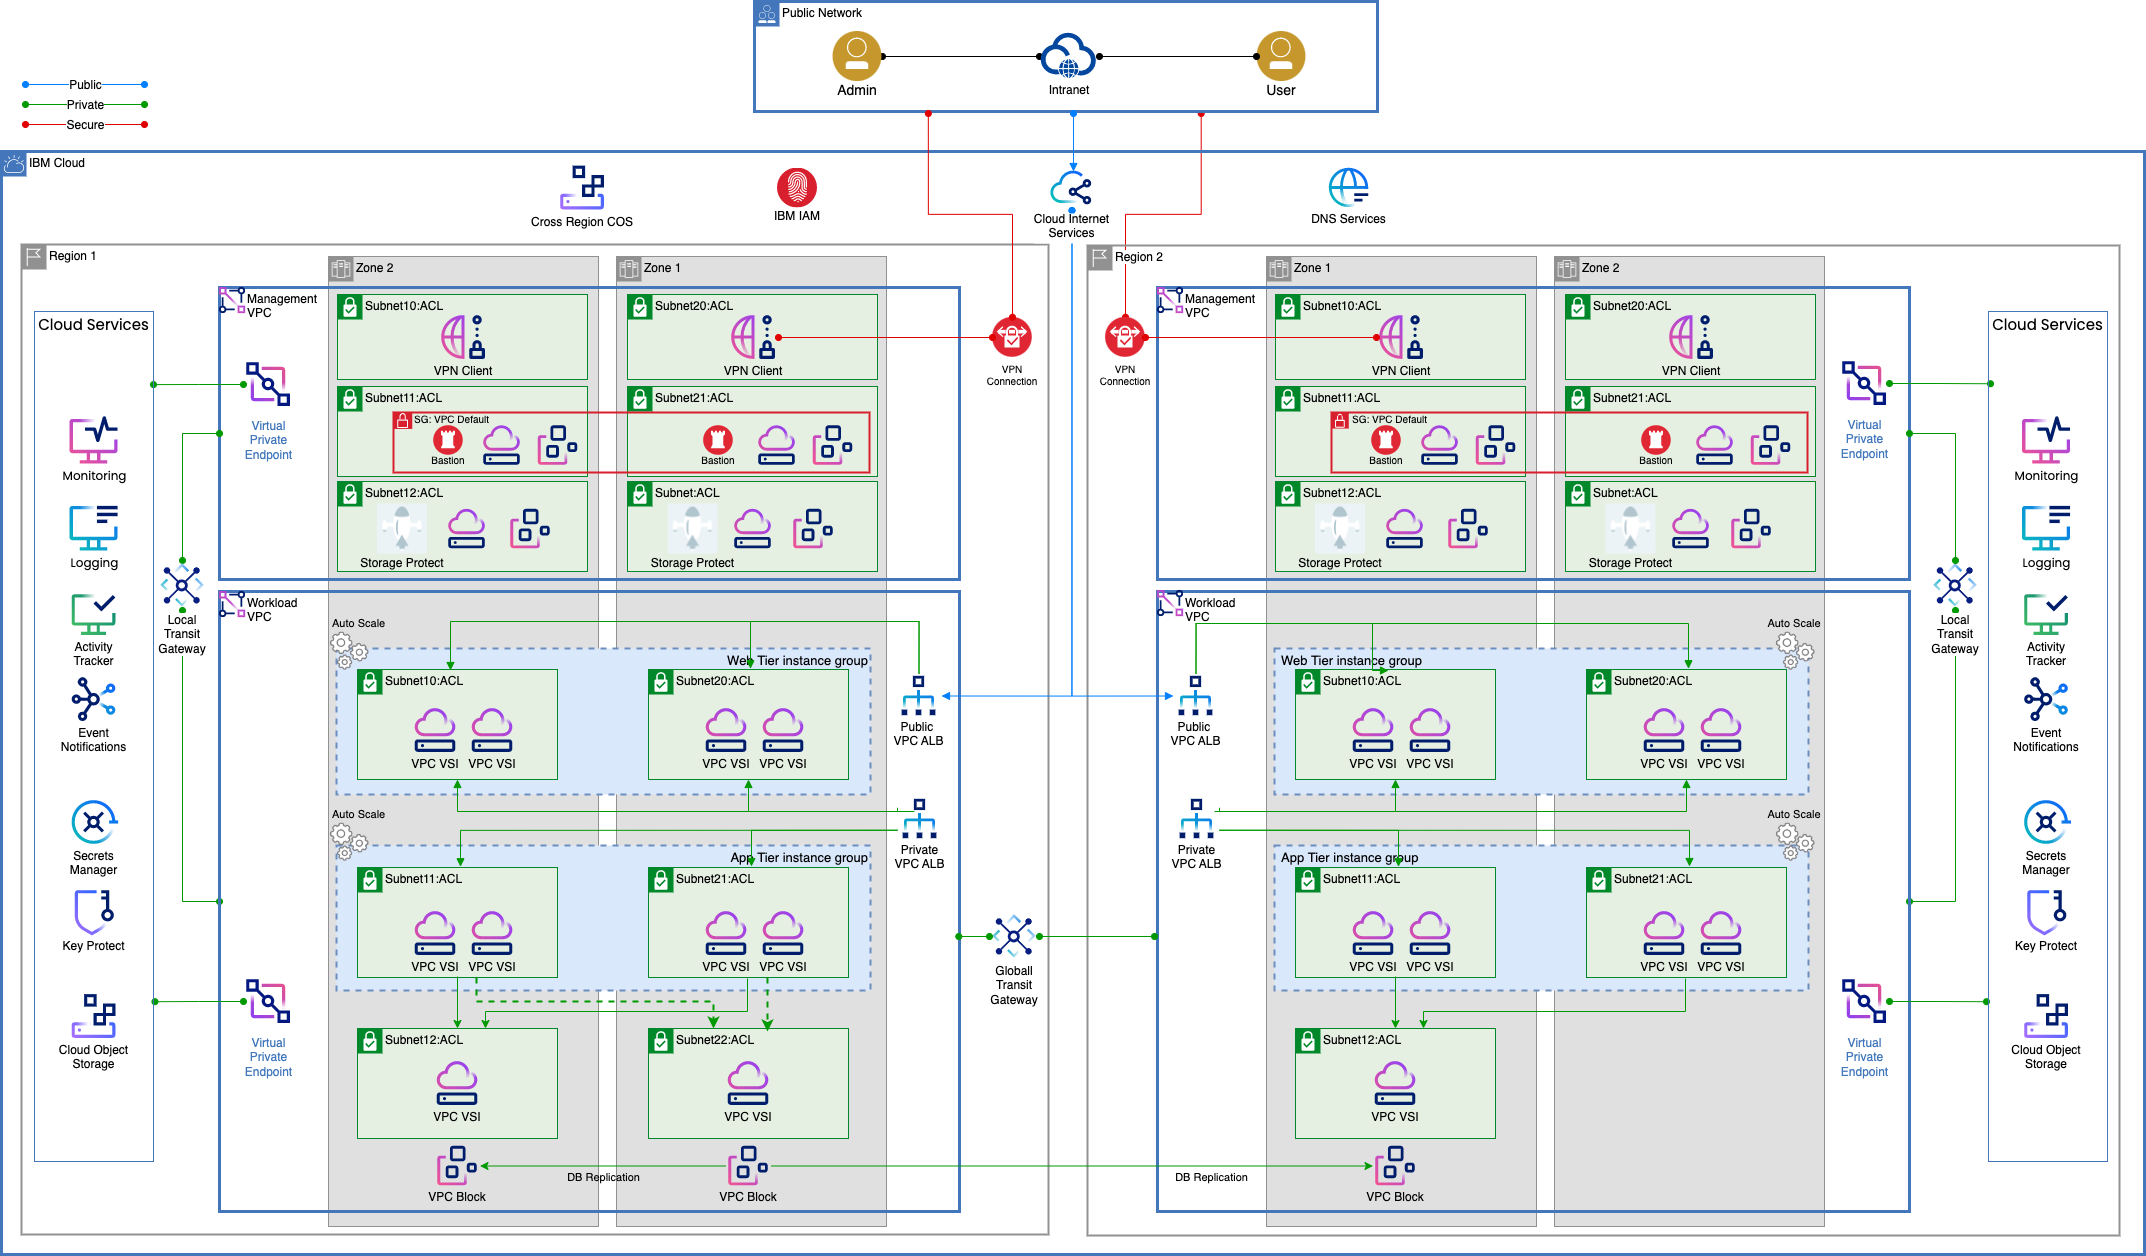
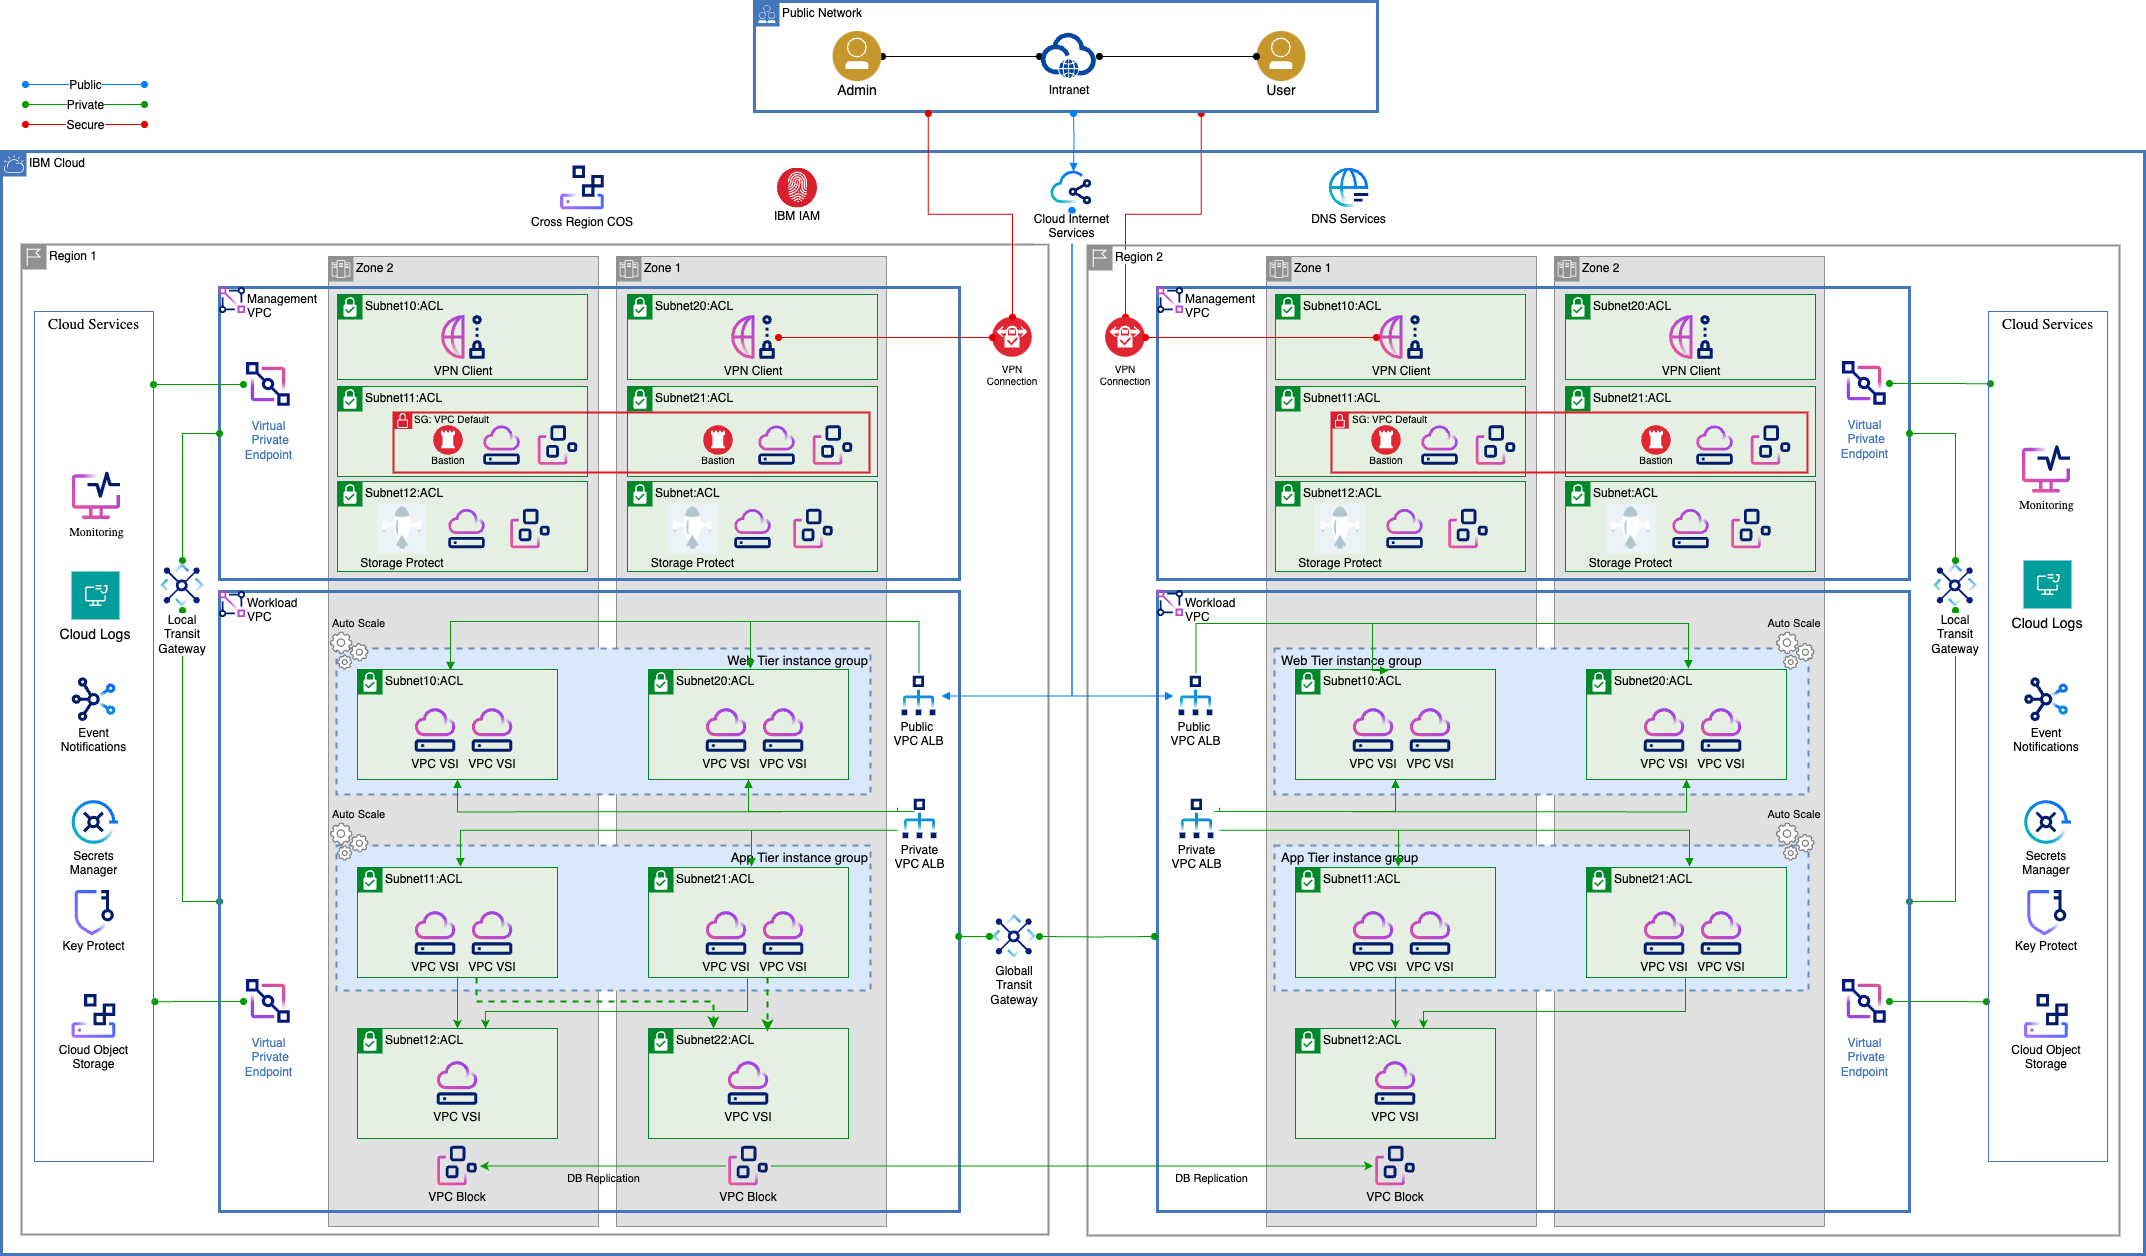
Update: 29-01-2025

diff --git a/service-management-design.md b/service-management-design.md
@@ -35,39 +35,19 @@ Use IBM Cloud Monitoring to get a comprehensive view of the health of the Web Ap
 
 - Backup historical metrics that might be needed for auditing purposes by querying and copying the data to cross-regional Cloud Object Storage buckets that can be accessed from another region if a disaster occurs.
 
-## Logging design
+## Auditing and Logging design
 {: #logging-design}
 
-Use IBM Log Analysis to monitor operational logs for applications, platform resources, and infrastructure as follows:
-- Provision one IBM Logging instance in each region where the application is deployed to collect and monitor Platform Logs for Cloud Services that are provisioned in that region. See [Configuring Platform Logs](https://cloud.ibm.com/docs/log-analysis?topic=log-analysis-config_svc_logs) for details.
+Use [IBM Cloud Logs](/docs/cloud-logs?topic=cloud-logs-about-cl) to monitor auditing and operational logs for applications, platform resources, and infrastructure.  IBM Cloud Logs provides the following capabilites:
 
-- Install and configure logging agents on each of the VPC Virtual Servers that are used to deploy the web, app, and database tiers. See [Logging with Infrastructure](https://cloud.ibm.com/docs/log-analysis?topic=log-analysis-infra_logging) for details. Use the [Ingestion REST API](https://cloud.ibm.com/docs/log-analysis?topic=log-analysis-ingest) to get the application logs.
+- Customizable user interface for live streaming of log tailing, real-time troubleshooting issue alerts, and log archiving.
+- Use of logging agent to collect and send infrastructure and application logs to an IBM Cloud Logs instance directly.
+- Aggregated logs across environments and cloud providers.
+- Historical access to logs.
+- Highly available, scalable, and compliant with industry security standards.
+- Integrated with IBM Cloud IAM for user access management.
 
-- Use the Logging dashboard to view, analyze, and manage logs.
-
-- Define alerts for the conditions that you need to monitor and integrate with IBM Cloud Monitoring to send notifications and manage log alerts along with metrics alerts. See [Integrating with IBM Cloud Monitoring](https://cloud.ibm.com/docs/log-analysis?topic=log-analysis-monitoring) for details.
-
-   Consider configuring streaming to forward logs to other tools such as data lakes or Security Information and Event Management (SIEM) for further analysis or threat detection and investigation. See [Streaming Data](https://cloud.ibm.com/docs/log-analysis?topic=log-analysis-streaming) for details.
-   {: note}
-
-- Copy logs to IBM Cloud Object Storage to support \>30 days data search or data retention policy requirements. See [Configuring Archiving Logs to Cloud Object Storage](https://cloud.ibm.com/docs/log-analysis?topic=log-analysis-archiving-ov) for details.
-
-## Auditing design
-{: #auditing-design}
-
-Use [IBM Cloud Activity Tracker](https://cloud.ibm.com/docs/activity-tracker?topic=activity-tracker-getting-started) to capture and monitor audit logs for Web Applications that are deployed on VPC Virtual Servers, as follows:
-- Provision one IBM Cloud Activity Tracker instance in each region where the application is deployed to collect audit logs for IBM Cloud resources used by the application. See [Activity Tracker - Getting Started](https://cloud.ibm.com/docs/activity-tracker?topic=activity-tracker-getting-started#gs_objectives) for details.
-
-- Install and configure logging agents on each of the VPC Virtual Servers that are used to deploy the web, app, and database tiers. See [Logging with Infrastructure](https://cloud.ibm.com/docs/log-analysis?topic=log-analysis-infra_logging) for details.
-
-- Use the Logging dashboard to view, analyze, and manage logs.
-
-- Create alerts to get notifications when configuration changes are made to the IBM Cloud account and integrate with IBM Cloud Monitoring to send notifications and manage audit log alerts along with metrics alerts. See [Integrating with IBM Cloud Monitoring](https://cloud.ibm.com/docs/activity-tracker?topic=activity-tracker-monitoring) for details.
-
-   Consider configuring streaming to forward logs to other tools such as data lakes or Security Information and Event Management (SIEM) for further analysis or threat detection and investigation. See [Streaming Data](https://cloud.ibm.com/docs/activity-tracker?topic=activity-tracker-streaming) for details.
-   {: note}
-
-- Copy audit logs to IBM Cloud Object Storage to support \>30 days data search or data retention policy requirements. See [Configuring Archiving Logs to Cloud Object Storage](https://cloud.ibm.com/docs/activity-tracker?topic=activity-tracker-archiving-ov) for details.
+See [Getting started with IBM Cloud Logs](docs/cloud-logs?topic=cloud-logs-getting-started) on provisioning and setting up IBM Cloud Logs for both auditing and application logging.
 
 ## Alerting design
 {: #alerting-design}

diff --git a/service-management-architecture.md b/service-management-architecture.md
@@ -29,9 +29,9 @@ The following sections summarize the architecture decisions for service manageme
 
 | Architecture decision | Requirement | Alternative | Decision | Rationale |
 | -------------- | -------------- | -------------- | -------------- | -------------- |
-| Log Monitoring of Cloud infrastructure and services | Monitor operational logs to detect issues that might impact the availability of the system. | - IBM Cloud Logging \n - BYO Logging Tool | IBM Cloud Logging | IBM Cloud Logging collects operational logs from applications, platform resources, and infrastructure and provides interfaces to view and analyze all logs. |
-| Log Monitoring of Web App | Monitor application operational logs to detect issues that might impact the availability of the app.| - IBM Cloud Logging \n - Application Logging Tool \n - BYO Logging Tool | IBM Cloud Logging + Application Logging Tool | Use the Application Logging Tool to send application logs to IBM Cloud Logging and aggregate application-specific log details. |
-| Log Monitoring of DB | Monitor database logs to detect issues that might impact the availability of the database.| - IBM Cloud Logging \n - DB Tools \n - BYO Logging Tool | IBM Cloud Logging + DB Tools | DB tools are used along with IBM Cloud Logging to get more DB-specific log information. |
+| Log Monitoring of Cloud infrastructure and services | Monitor operational logs to detect issues that might impact the availability of the system. | - IBM Cloud Logs \n - BYO Logging Tool | IBM Cloud Logs | IBM Cloud Logs collects operational logs from applications, platform resources, and infrastructure and provides interfaces to view and analyze all logs. |
+| Log Monitoring of Web App | Monitor application operational logs to detect issues that might impact the availability of the app.| - IBM Cloud Logging \n - Application Logging Tool \n - BYO Logging Tool | IBM Cloud Logs + Application Logging Tool | Use the Application Logging Tool to send application logs to IBM Cloud Logs and aggregate application-specific log details. |
+| Log Monitoring of DB | Monitor database logs to detect issues that might impact the availability of the database.| - IBM Cloud Logs \n - DB Tools \n - BYO Logging Tool | IBM Cloud Logs + DB Tools | DB tools are used along with IBM Cloud Logs to get more DB-specific log information. |
 {: caption="Architecture decisions for logging" caption-side="bottom"}
 
 ## Architecture decisions for auditing
@@ -39,8 +39,8 @@ The following sections summarize the architecture decisions for service manageme
 
 | Architecture decision | Requirement | Alternative | Decision | Rationale |
 | -------------- | -------------- | -------------- | -------------- | -------------- |
-| Audit Logging | Monitor audit logs to track changes to cloud resources and detect potential security problems | IBM Cloud Activity Tracker \n - Hosted Event Search \n - Event Routing   | IBM Cloud Activity Tracker- Hosted Event Search | IBM Cloud Activity Tracker-Hosted Event Search provides interfaces to capture, store, view, search, and monitor user-initiated actions to provision, access, and manage IBM Cloud resources. |
-{: caption="Auditing architecture decisions" caption-side="bottom"}
+| Audit Logging | Monitor audit logs to track changes to cloud resources and detect potential security problems. | IBM Cloud Logs with IBM Cloud Activity Tracker Event Routing   | IBM Cloud Logs with IBM Cloud Activity Tracker Event Routing | IBM Cloud Logs with IBM Cloud Activity Tracker Event Routing provides an interface to capture, store, view, search, and monitor user-initiated actions to provision, access, and manage IBM Cloud resources. |
+{: caption="Architecture decisions for auditing" caption-side="bottom"}
 
 ## Architecture decisions for alerting
 {: #alerting}

diff --git a/reference-architecture-web-app-cross-region.md b/reference-architecture-web-app-cross-region.md
@@ -120,6 +120,5 @@ The Architecture Framework provides a consistent approach to design cloud soluti
 |                    | [IBM Storage Protect](https://cloud.ibm.com/catalog/content/SPonIBMCloud-20c54034-d319-48c0-beb6-0b4adc54265c-global){: external} | Database backups    |
 |                    | [Cross-Region Cloud Object Storage Buckets](/docs/cloud-object-storage?topic=cloud-object-storage-endpoints#endpoints-geo)   | Backup storage       |
 | Service management | [IBM Cloud Monitoring](/docs/monitoring?topic=monitoring-about-monitor)      | Apps and operational monitoring           |
-|                    | [IBM Log Analysis](/docs/log-analysis?topic=log-analysis-getting-started)        | Apps and operational logs               |
-|                    | [IBM Cloud Activity Tracker](/docs/activity-tracker?topic=activity-tracker-getting-started)         | Audit logs           |
+|                    | [IBM Cloud Logs](/docs/cloud-logs?topic=cloud-logs-getting-started)                                                                                                        | Audit events, Apps and operational logs   
 {: caption="Web app cross-region resiliency components" caption-side="bottom"}
